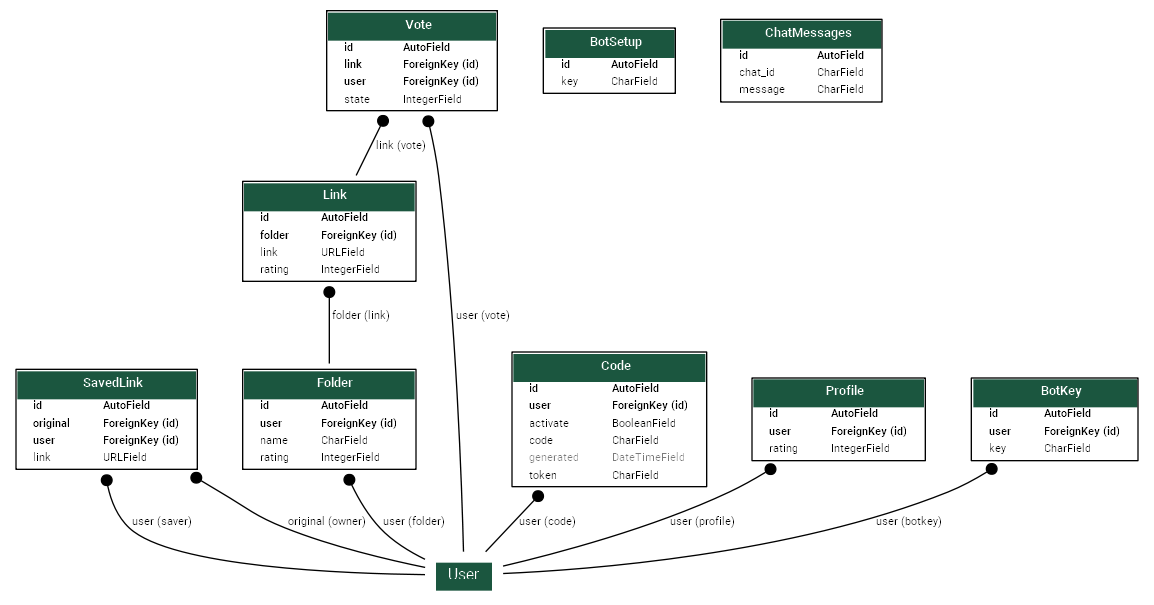
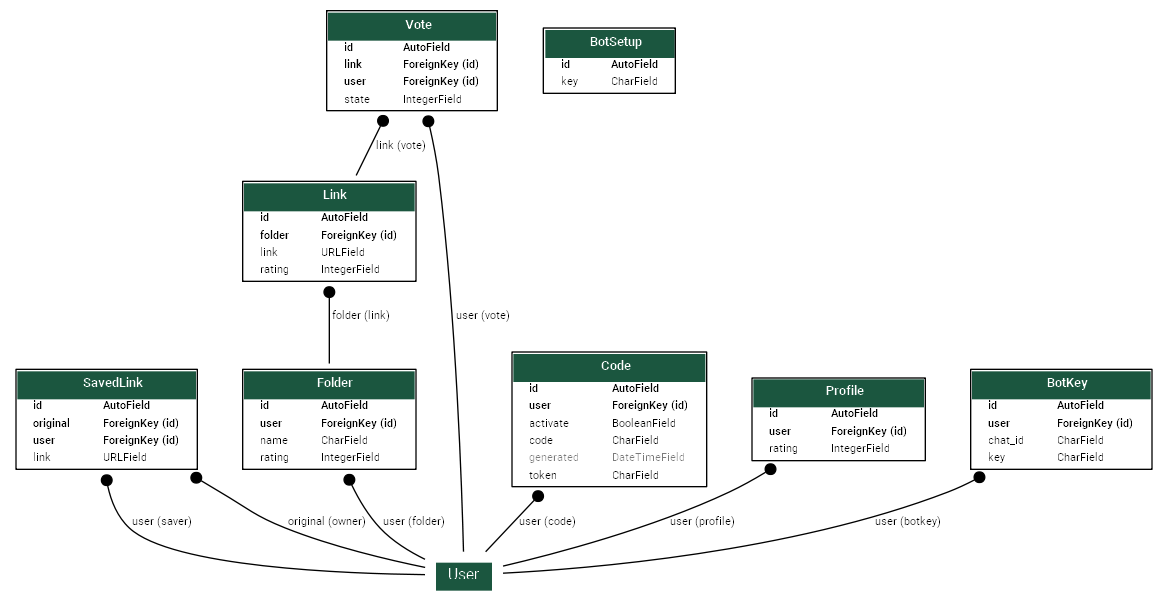
Added TG Bot

diff --git a/app/bot.py b/app/bot.py
@@ -1,0 +1,100 @@
+import logging
+import os
+import re
+import django
+from urlextract import URLExtract
+from django.urls import reverse
+import telegram
+from telegram.ext import CommandHandler, Updater, MessageHandler, Filters
+
+os.environ.setdefault("DJANGO_SETTINGS_MODULE", "links.settings")
+django.setup()
+
+from links import settings
+from app.models import BotSetup, BotKey, Folder, Link
+
+extractor = URLExtract()
+api_key = BotSetup.objects.all()[0].key
+# Enable logging
+logging.basicConfig(format='%(asctime)s - %(name)s - %(levelname)s - %(message)s',
+                    level=logging.INFO)
+
+logger = logging.getLogger(__name__)
+
+
+def start(update, context):
+    update.message.reply_text(f'Пришлите в сообщении API\-ключ, полученный по [ссылке](https://linkit.herokuapp.com)', parse_mode=telegram.ParseMode.MARKDOWN_V2)
+
+
+def help(update, context):
+    update.message.reply_text('Help!')
+
+
+def add_link(update, context):
+    chat_id = str(update.message.from_user.id)
+    try:
+        bot_key = BotKey.objects.get(chat_id=chat_id)
+        try:
+            folder = Folder.objects.get(user=bot_key.user, name="Telegram")
+        except Folder.DoesNotExist:
+            folder = Folder(user=bot_key.user, name="Telegram")
+            folder.save()
+        answer = ""
+        cnt = 1
+        for i in extractor.find_urls(update.message.text):
+            try:
+                link = Link.objects.get(folder=folder, link=i)
+                answer += f'{cnt}. {link.link} - уже существует в подборке\n'
+            except Link.DoesNotExist:
+                link = Link(folder=folder, link=i)
+                link.save()
+                answer += f'{cnt}. {link.link} - успешно сохранена\n'
+            cnt += 1
+        if answer == "":
+            answer = "В вашем сообщении не обнаружено ни одной ссылки."
+        update.message.reply_text(answer)
+    except BotKey.DoesNotExist:
+        try:
+            bot_key = BotKey.objects.get(key=update.message.text)
+            bot_key.chat_id = chat_id
+            bot_key.save()
+            update.message.reply_text(f"Здравствуйте, {bot_key.user.username}")
+        except BotKey.DoesNotExist:
+            update.message.reply_text("Неправильный API-ключ.")
+
+
+def error(update, context):
+    """Log Errors caused by Updates."""
+    logger.warning('Update "%s" caused error "%s"', update, context.error)
+
+
+def main():
+    """Start the bot."""
+    # Create the Updater and pass it your bot's token.
+    # Make sure to set use_context=True to use the new context based callbacks
+    # Post version 12 this will no longer be necessary
+    updater = Updater(api_key, use_context=True)
+
+    # Get the dispatcher to register handlers
+    dp = updater.dispatcher
+
+    # on different commands - answer in Telegram
+    dp.add_handler(CommandHandler("start", start))
+
+    # on noncommand i.e message - echo the message on Telegram
+    dp.add_handler(MessageHandler(Filters.text, add_link))
+
+    # log all errors
+    dp.add_error_handler(error)
+
+    # Start the Bot
+    updater.start_polling()
+
+    # Run the bot until you press Ctrl-C or the process receives SIGINT,
+    # SIGTERM or SIGABRT. This should be used most of the time, since
+    # start_polling() is non-blocking and will stop the bot gracefully.
+    updater.idle()
+
+
+if __name__ == '__main__':
+    main()

diff --git a/app/migrations/0002_botkey_botsetup.py b/app/migrations/0002_botkey_botsetup.py
@@ -1,4 +1,4 @@
-# Generated by Django 3.0.5 on 2020-06-03 06:53
+# Generated by Django 3.0.5 on 2020-06-05 19:16
 
 from django.conf import settings
 from django.db import migrations, models
@@ -21,17 +21,10 @@ class Migration(migrations.Migration):
             ],
         ),
         migrations.CreateModel(
-            name='ChatMessages',
-            fields=[
-                ('id', models.AutoField(auto_created=True, primary_key=True, serialize=False, verbose_name='ID')),
-                ('message', models.CharField(default='', max_length=1024)),
-                ('chat_id', models.CharField(default='', max_length=64)),
-            ],
-        ),
-        migrations.CreateModel(
             name='BotKey',
             fields=[
                 ('id', models.AutoField(auto_created=True, primary_key=True, serialize=False, verbose_name='ID')),
+                ('chat_id', models.CharField(default='', max_length=64, null=True)),
                 ('key', models.CharField(max_length=64)),
                 ('user', models.ForeignKey(on_delete=django.db.models.deletion.CASCADE, to=settings.AUTH_USER_MODEL)),
             ],

diff --git a/app/models.py b/app/models.py
@@ -99,13 +99,9 @@ class Profile(models.Model):
 
 class BotKey(models.Model):
     user = models.ForeignKey(to=User, on_delete=models.CASCADE)
+    chat_id = models.CharField(max_length=64, default="", null=True)
     key = models.CharField(max_length=64)
 
 
 class BotSetup(models.Model):
     key = models.CharField(default="", max_length=128)
-
-
-class ChatMessages(models.Model):
-    message = models.CharField(default="", max_length=1024)
-    chat_id = models.CharField(default="", max_length=64)

diff --git a/links/urls.py b/links/urls.py
@@ -54,6 +54,7 @@ urlpatterns = [
     path('api/folder/<int:folder_id>/', views.api_folder_view, name='api_folder_view'),
     path('api/index/', views.api_index_view, name='api_index_view'),
     path('api/search/', views.api_search_view, name='api_search_view'),
+    path('api/account/key/', views.account_api_key_get, name='api_account_key'),
     url(r'^get-urls/$', JsUrlsView.as_view(), name='js_urls'),
     url(r'^(?P<exception>.*)/$', views.handler404, name="page_404"),
 ]

diff --git a/app/views.py b/app/views.py
@@ -614,3 +614,8 @@ def api_search_view(request):
     context['saved_links'] = s_links
     context['saved_links_links'] = utils.get_saved_links(s_links)
     return render(request, 'api/search.html', context)
+
+
+@login_required()
+def account_api_key_get():
+    pass

diff --git a/links/settings.py b/links/settings.py
@@ -11,7 +11,6 @@ https://docs.djangoproject.com/en/3.0/ref/settings/
 """
 
 import os
-
 # Build paths inside the project like this: os.path.join(BASE_DIR, ...)
 BASE_DIR = os.path.dirname(os.path.dirname(os.path.abspath(__file__)))
 
